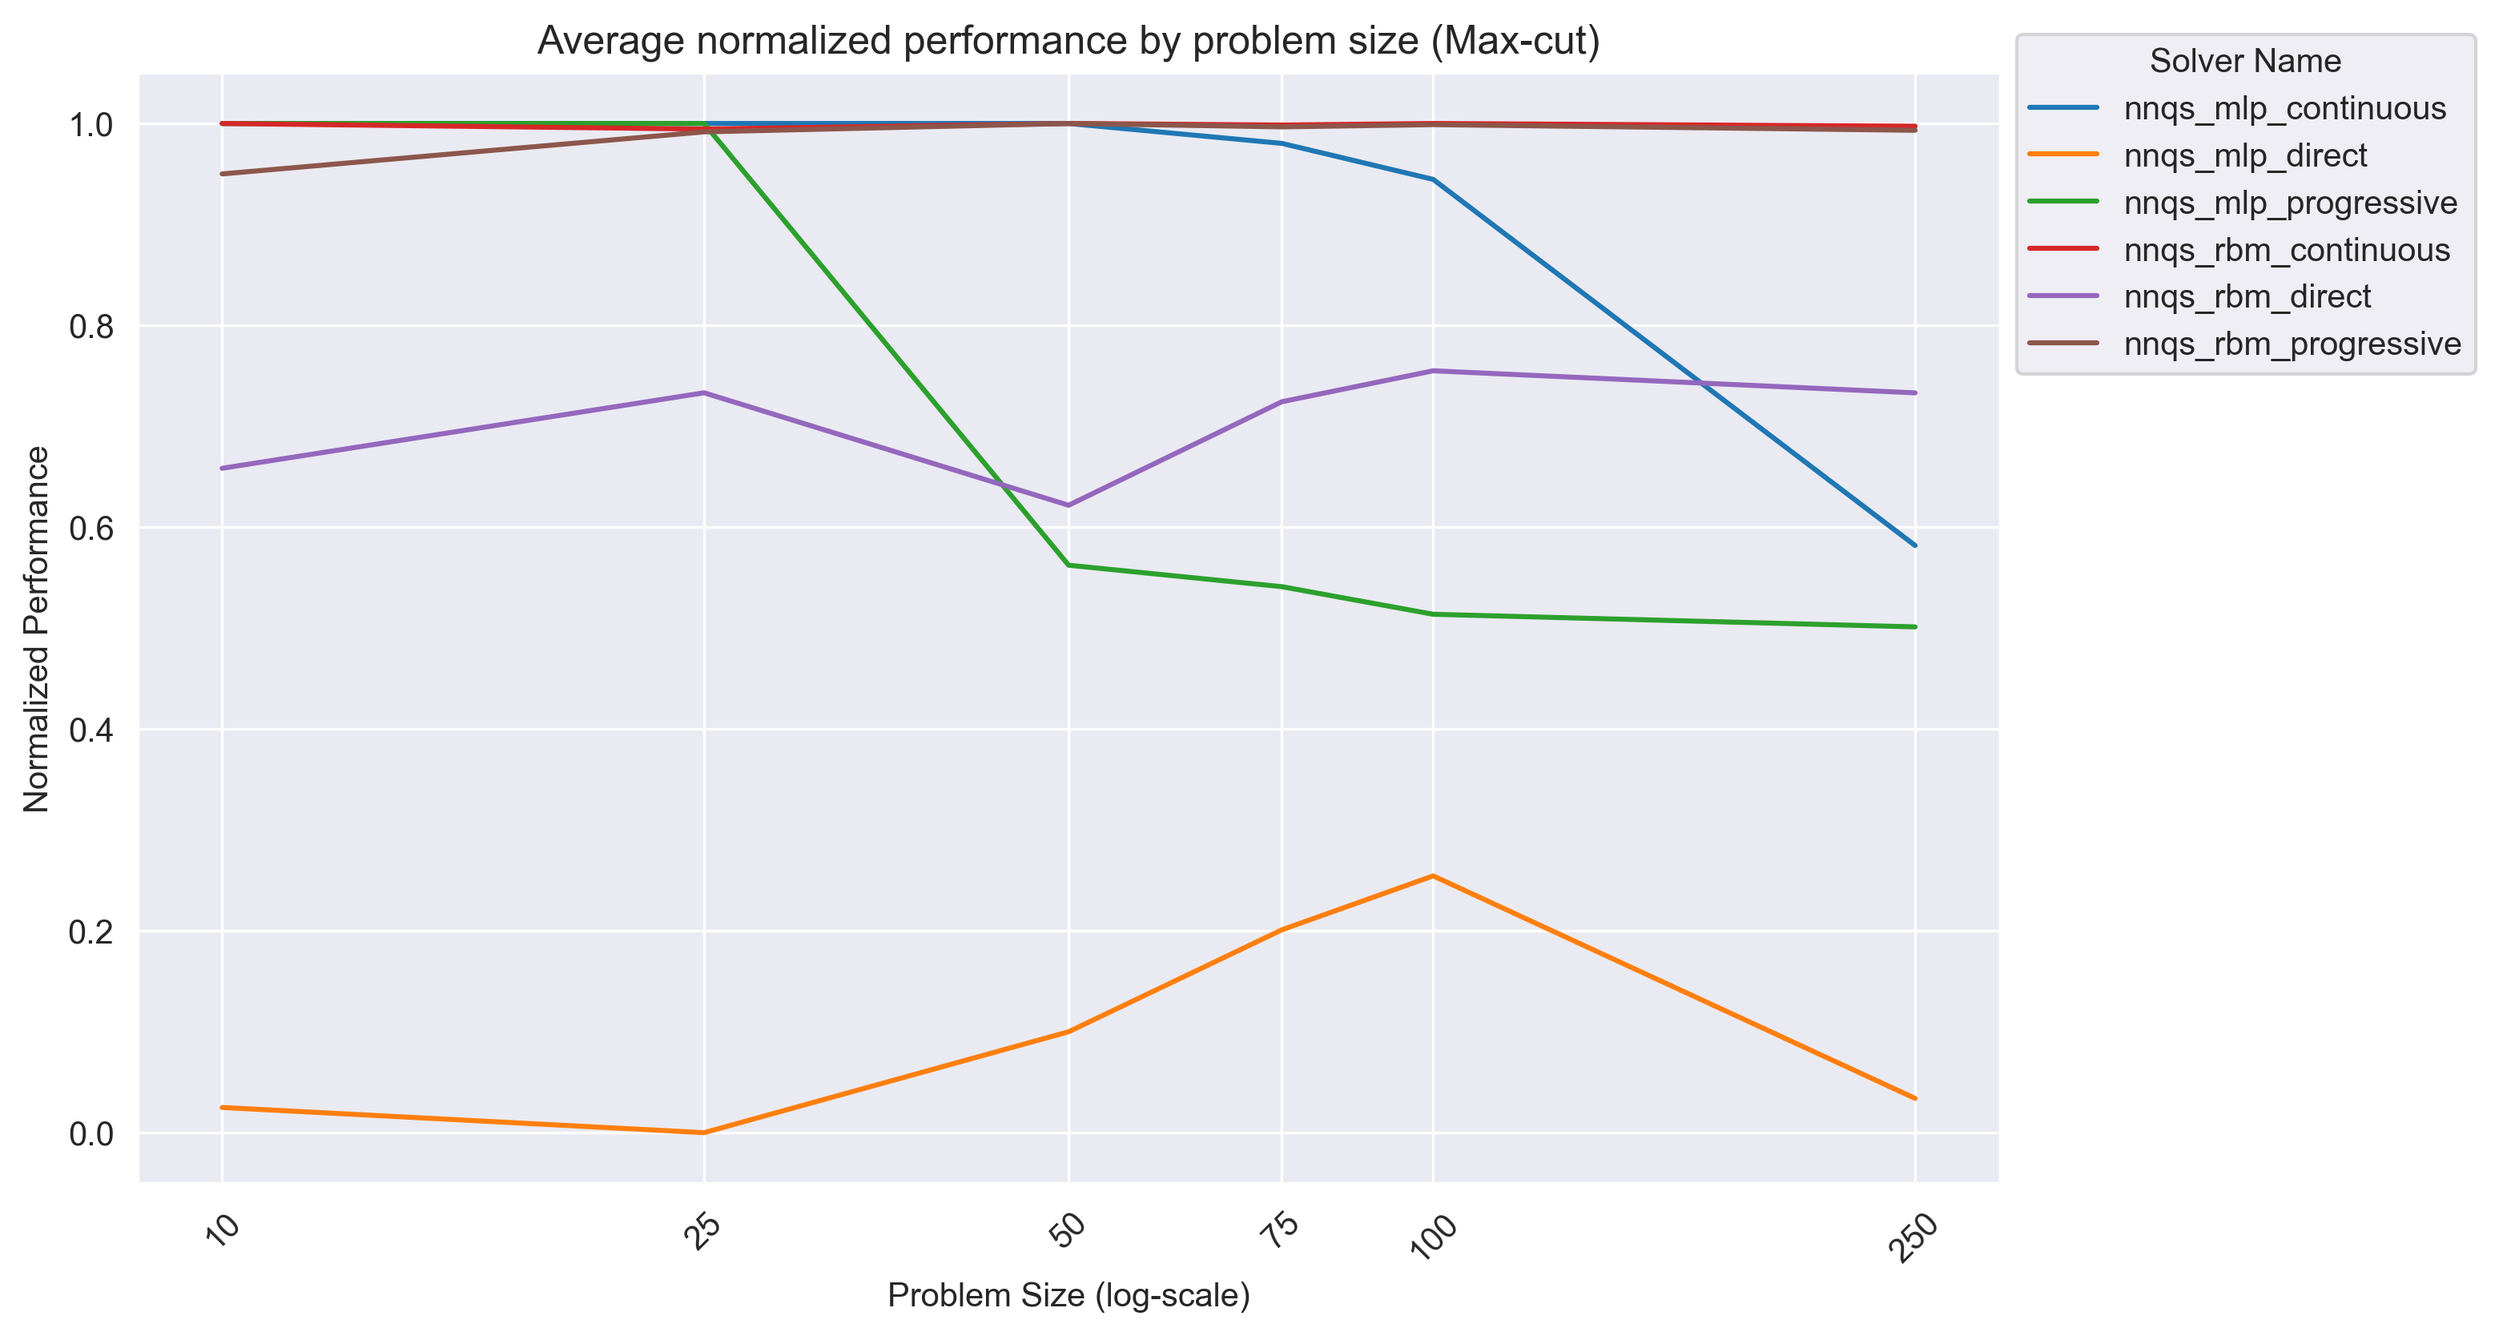
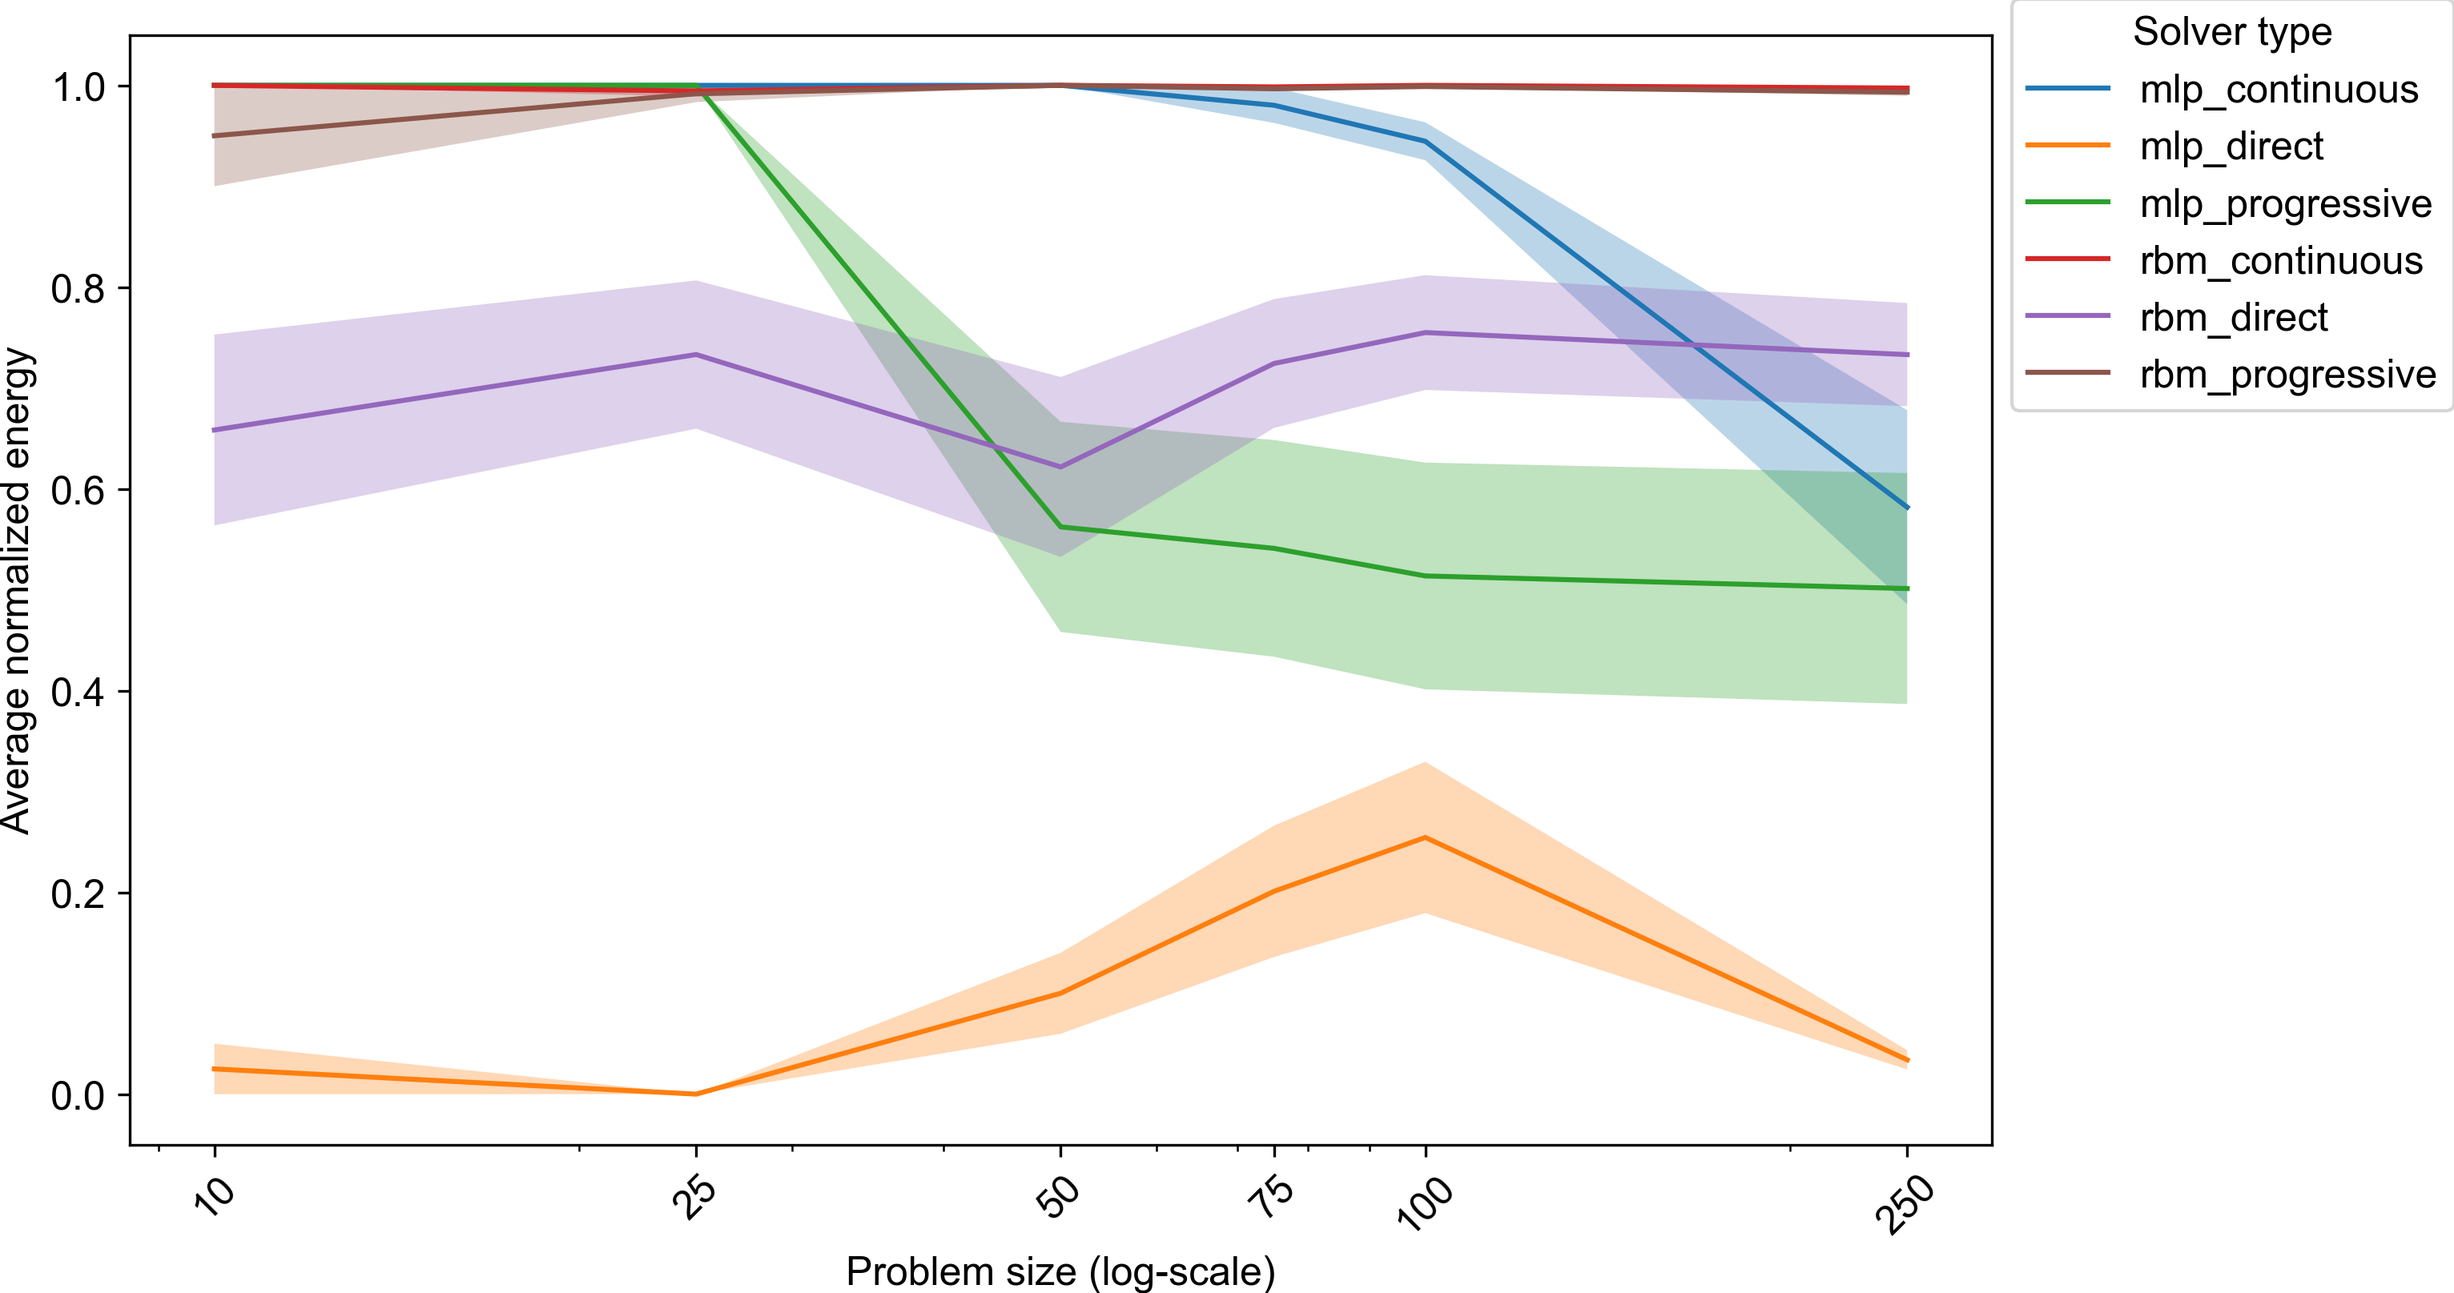
update

diff --git a/contents/methodology.tex b/contents/methodology.tex
@@ -30,19 +30,19 @@ We will use quantum annealers from D-wave Systems as the solver for Quantum Anne
 \begin{figure}[h!]
     \centering
     \includegraphics[width=0.5\linewidth]{images/pegasus_topology.png}
-    \caption{A view of the D-Wave pegasus topology where each line represents a qubit and intersections represent available couplers~\protect\cite{dwaveadvantage}}
+    \caption[A view of the D-Wave pegasus topology---each line represents a qubit and intersections represent available couplers]{A view of the D-Wave pegasus topology where each line represents a qubit and intersections represent available couplers~\protect\cite{dwaveadvantage}}
     \label{pegasustopology}
 \end{figure}
 The experiments will be conducted with the D-Wave Advantage 4.1 QPU with up to 5640 qubits and 40484 couplers \cite{dwaveadvantage}. The QPU operates at a temperature of approximately $12$mK and is built with "a network of tunably coupled rf superconducting quantum–interference device (rf-SQUID) qubits" arranged with the Pegasus graph topology that allows for up to 15 couplers per qubit, shown in \autoref{pegasustopology}. The system Hamiltonian as a function of $s$, the normalized anneal fraction, is:
 \begin{equation}
     \label{eqn:dwavehamiltonian}
-    H(s) = -\frac{A(s)}{2}\left( \right) + \frac{B(s)}{2}\left(\sum_{i}h_i \Hat{\sigma}_z^{(i)}\ + \sum_{i > j}J_{i,j} \Hat{\sigma}_z^{(i)}\Hat{\sigma}_z^{j)}\right)
+    H(s) = -\frac{A(s)}{2}\left(\sum_{i} \Hat{\sigma}_x^{(i)}\right) + \frac{B(s)}{2}\left(\sum_{i}h_i \Hat{\sigma}_z^{(i)}\ + \sum_{i > j}J_{i,j} \Hat{\sigma}_z^{(i)}\Hat{\sigma}_z^{j)}\right)
 \end{equation}
 where functions $A(s)$ and $B(s)$ used in the Advantage 4.1 QPU are shown in \autoref{dwaveannealing} with $A(s) >> B(s)$ when $s=0$ and $B(s) >> A(s)$ when $s=1$ and have an energy scale of around $10^{-24} J$.
 \begin{figure}[h!]
     \centering
     \includegraphics[width=0.6\linewidth]{images/dwave_annealing.png}
-    \caption{Annealing functions $A(s)$ and $B(s)$ as a function of the normalized anneal fraction $s$~\protect\cite{dwaveadvantage}}
+    \caption[Annealing functions $A(s)$ and $B(s)$ as a function of the normalized anneal fraction $s$]{Annealing functions $A(s)$ and $B(s)$ as a function of the normalized anneal fraction $s$~\protect\cite{dwaveadvantage}}
     \label{dwaveannealing}
 \end{figure}
 We will use the default annealing time of $20\mu s$ with $1000$ repeated samplings (number of reads). The candidate solution will be taken as the best solution among the $1000$ sampled configurations.
@@ -104,7 +104,7 @@ To convert a max-cut problem into a QUBO problem, we represent the assignment of
 
 \subsection*{Sherrington-Kirkpatrick (SK) model}
 The Sherrington Kirkpatrick (SK) model is an Ising problem with a random Hamiltonian of the form $\hat{H}_c = \frac{1}{\sqrt{n}} \sum_{1 \leq i < j \leq n} J_{ij}s_i s_j$
-where $J_{ij} \sim \mathcal{N}(0,1)$ are independent standard Gaussian random variables. The energy landscape of the SK model is complex and has exponentially many local minima with a unique global minimum separated by high energy barriers \cite{skmodel}. This many-valley structure implies that it is extremely difficult to find the exact solution of the model. We generate random Gaussian variables with a random normal generator from the NumPy Python library.
+where $J_{ij} \sim \mathcal{N}(0,1)$ are independent standard Gaussian variables. The energy landscape of the SK model is complex and has exponentially many local minima with a unique global minimum separated by high energy barriers \cite{skmodel}. This many-valley structure implies that it is extremely difficult to find the exact solution of the model. We generate random Gaussian variables with a random normal generator from the NumPy Python library.
 
 %Parisi [6] provides a formula (for proof, see [7]) that, when numerically evaluated [8, 9, 1], shows for typical instances,
 %\begin{equation*}
@@ -114,7 +114,7 @@ where $J_{ij} \sim \mathcal{N}(0,1)$ are independent standard Gaussian random va
 
 %\subsection*{Quantum Critical Points}
 %get rid of Linear term
-%J terms are 0
+%J terms are 1
 %Ising model has no linear term
 %QCP is A(s)/2 = +-B(s)/2 * J magnitude is the same.
 %harder for Dwave to solve, jump to excited state
@@ -129,9 +129,9 @@ To evaluate the performance of each solver we will use two performance metrics:
     \begin{equation}
         \Bar{p} = \frac{\text{number of best solutions found}}{20}
     \end{equation}
-    \item The average normalized performance, used in \cite{b34}, which is:
+    \item The average normalized energy, used in \cite{b34}, which is:
     \begin{equation}
         \Bar{r}_{solver} =  \frac{1}{20} \sum_{i = 1}^{20} \frac{E_{max} - E_{solver}}{E_{max} - E_{min}}
     \end{equation}
-    where $E_{max}$ and $E_{min}$ are the energies of the worst and best solutions found by all solvers and $E_{solver}$ is the energy that the solver found. Note that if a solver finds the best solution it gets a score of $1$ and if it finds the worst solution it gets a score of $0$. All solvers get a score of $1$ if $E_{max}=E_{min}$.
+    where $E_{max}$ and $E_{min}$ are the energies of the worst and best solutions found by all solvers and $E_{solver}$ is the energy that the solver found. Note that if a solver finds the best solution it gets a normalized energy of $1$ and if it finds the worst solution it gets a normalized energy of $0$. All solvers get a normalized energy of $1$ if all solutions have the same energy.
 \end{enumerate}

diff --git a/contents/nnqsresults.tex b/contents/nnqsresults.tex
@@ -28,58 +28,72 @@ We will also compare 3 training algorithms for NNQS---progressive, direct, and c
     \State Train NNQS on $H(s)$ for $1$ epoch;
     \EndFor
     \end{algorithmic}
-    \caption{NNQS Direct Training}
+    \caption{NNQS Continuous Training}
     \label{alg:continuous}
 \end{algorithm}
 
 The direct training scheme serves as a baseline for directly training a neural network with the cost function as the problem Hamiltonian. The progressive training scheme most closely resembles the quantum annealing process, where the system is kept at the ground state by training until convergence in each increment of $s$. The continuous training scheme is a combination of the other two schemes by slowly incrementing $s$ but never reaching convergence.
 
+\section{Results and Discussion}
 \subsection{NAE3SAT}
+
 \begin{figure}[!h]
-    \centering
-    \includegraphics[width=1\linewidth]{images/nae3sat_nnqs_avg.png}
-    \caption{Performance of different NNQS types on the NAE3SAT dataset}
+    \subfloat[Normalized energy]{\includegraphics[width=0.49\textwidth]{images/nae3sat_nnqs_avg.png}}\hfill
+    \subfloat[Success probability]{\includegraphics[width=0.49\textwidth]{images/nae3sat_nnqs_success_avg.png}}
+    \caption{Average performance of different NNQS types for NAE3SAT}
     \label{nnqs-nae3sat-average}
 \end{figure}
 
 \begin{figure}[!h]
-    \centering
-    \includegraphics[width=1\linewidth]{images/nae3sat_nnqs_size.png}
-    \caption{Performance by size on the NAE3SAT dataset}
+    \subfloat[Normalized energy]{\includegraphics[width=0.49\textwidth]{images/nae3sat_nnqs_size.png}}\hfill
+    \subfloat[Success probability]{\includegraphics[width=0.49\textwidth]{images/nae3sat_nnqs_success_size.png}}
+    \caption{Performance of different NNQS types for NAE3SAT by problem size}
     \label{nnqs-nae3sat-size}
 \end{figure}
 
+%\begin{figure}[!h]
+%    \centering
+%    \includegraphics[width=1\linewidth]{images/nae3sat_nnqs_size.png}
+%    \caption{Performance by size on the NAE3SAT dataset}
+%    \label{nnqs-nae3sat-size}
+%\end{figure}
+
 \subsection{Max-cut}
+
 \begin{figure}[!h]
-    \centering
-    \includegraphics[width=1\linewidth]{images/maxcut_nnqs_avg.png}
-    \caption{Performance of different NNQS types on the max-cut dataset}
+    \subfloat[Normalized energy]{\includegraphics[width=0.49\textwidth]{images/maxcut_nnqs_avg.png}}\hfill
+    \subfloat[Success probability]{\includegraphics[width=0.49\textwidth]{images/maxcut_nnqs_success_avg.png}}
+    \caption{Average performance of different NNQS types for max-cut}
     \label{nnqs-maxcut-average}
 \end{figure}
 
 \begin{figure}[!h]
-    \centering
-    \includegraphics[width=1\linewidth]{images/maxcut_nnqs_size.png}
-    \caption{Performance by size on the max-cut dataset}
+    \subfloat[Normalized energy]{\includegraphics[width=0.49\textwidth]{images/maxcut_nnqs_size.png}}\hfill
+    \subfloat[Success probability]{\includegraphics[width=0.49\textwidth]{images/maxcut_nnqs_success_size.png}}
+    \caption{Performance of different NNQS types for max-cut by problem size}
     \label{nnqs-maxcut-size}
 \end{figure}
 
-\subsection{SK Model}
+
+\subsection{SK model}
+
 \begin{figure}[!h]
-    \centering
-    \includegraphics[width=1\linewidth]{images/skmodel_nnqs_avg.png}
-    \caption{Performance of different NNQS types on the SK model dataset}
+    \subfloat[Normalized energy]{\includegraphics[width=0.49\textwidth]{images/skmodel_nnqs_avg.png}}\hfill
+    \subfloat[Success probability]{\includegraphics[width=0.49\textwidth]{images/skmodel_nnqs_success_avg.png}}
+    \caption{Average performance of different NNQS types for SK model}
     \label{nnqs-skmodel-average}
 \end{figure}
 
 \begin{figure}[!h]
     \centering
-    \includegraphics[width=1\linewidth]{images/skmodel_nnqs_size.png}
-    \caption{Performance by size on the SK model dataset}
+    \subfloat[Normalized energy]{\includegraphics[width=0.9\textwidth]{images/skmodel_nnqs_size.png}}%\hfill
+    \\
+    \subfloat[Success probability]{\includegraphics[width=0.9\textwidth]{images/skmodel_nnqs_success_size.png}}
+    \caption{Performance of different NNQS types for SK model by problem size}
     \label{nnqs-skmodel-size}
 \end{figure}
 
-Using the RBM with a continuous training scheme gives the highest normalized performance across all datasets.
+Across all the problem sets, we see that the RBM has a better average performance compared to the MLP in both average normalized energy and success probability. In terms of training schemes, direct training performs the worst among the 3, and continuous training performs better than progressive training. Using the RBM with a continuous training scheme gives the highest normalized performance across all datasets.
 
 \section{Future Work}
 Future studies could investigate if more state-of-the-art machine learning models such as Graph Neural Networks or Attention-based Neural Networks can be used as the underlying architecture for NNQS.

diff --git a/contents/results.tex b/contents/results.tex
@@ -6,7 +6,7 @@ One of the first benchmarking works for quantum annealing was conducted by Dench
 
 \outcite{b34} evaluated the performance of QAOA on the IBMQ backend and the D-Wave quantum annealer using instances of MaxCut and 2-satisfiability problems with up to 18 variables. The performance of the QAOA algorithm is inconsistent and underperforms quantum annealing in their problem set. More recently, \outcite{b35} also compared the performance of QAOA on the IBMQ backend and D-Wave quantum annealing on randomly generated Ising problems with cubic interaction terms and also found that quantum annealing had superior performance over QAOA for all problem sizes. 
 
-\outcite{gomes2019classical} showed that the NNQS method with an RBM architecture produces good solutions for the max-cut problem with graph sizes of up to 256. \outcite{khandoker2023supplementing} uses recurrent neural networks as the NNQS architecture for the max-cut and traveling salesman problem and found that it outperforms SA. However, there is no direct study that compares performance across QA, QAOA, NNQS, and SA.
+\outcite{gomes2019classical} showed that the NNQS solver with an RBM architecture produces good solutions for the max-cut problem with graph sizes of up to 256. \outcite{khandoker2023supplementing} uses recurrent neural networks as the NNQS architecture for the max-cut and traveling salesman problem and found that it outperforms SA. However, there is no direct study that compares performance across QA, QAOA, NNQS, and SA.
 
 \section{Results and Discussion}
 Increase to 500 for classic solvers.
@@ -27,7 +27,7 @@ Increase to 500 for classic solvers.
     \label{all-maxcut-size}
 \end{figure}
 
-\subsection{SK Model}
+\subsection{SK model}
 \begin{figure}[!h]
     \centering
     \includegraphics[width=1\linewidth]{images/skmodel_normalized_performance_all.png}

diff --git a/report.tex b/report.tex
@@ -16,6 +16,7 @@
 \usepackage{hyperref}
 \usepackage{algorithm}
 \usepackage[noend]{algpseudocode}
+\usepackage[activate={true,nocompatibility},final,tracking=true,kerning=true,spacing=true,factor=1100,stretch=10,shrink=10]{microtype}
 
 \theoremstyle{definition}
 \newtheorem{defn}{Definition} \newcommand{\defnautorefname}{Definition}
@@ -70,7 +71,7 @@
 \pagenumbering{roman}
 
 % Replace as necessary
-\title{Data-driven and Physics-inspired Machine Learning: Benchmarking quantum-based QUBO solvers}
+\title{Data-driven and Physics-inspired Machine Learning: Benchmarking quantum-inspired quadratic unconstrained binary optimization solvers}
 \author{Guo Yulong}
 \projyear{2023/2024}
 \projnumber{H0811550}
@@ -103,7 +104,7 @@ TODO
 
 % Replace as necessary
 \begin{acknowledgement}
-I would like to thank my friends and family for their support during the project. I would also like to thank my project advisor associate professor St\'ephane Bressan, research fellow Lu Jianlong, and past and present members of the research group for their invaluable guidance and support. Without them, I would not have been able to complete this project.
+I would like to thank my friends and family for their support during the project. I would also like to thank my project advisor Associate Professor St\'ephane Bressan, research fellow Lu Jianlong, and past and present members of the research group for their invaluable guidance and support.
 \end{acknowledgement}
 
 \listoffigures % Remove if no figures

diff --git a/contents/appendixa.tex b/contents/appendixa.tex
@@ -10,9 +10,9 @@ This section will describe how we obtained an approximate analytical form of fun
     0.001 & 0.001001 & $9.746483 \times 10^0$ \\
     0.002 & 0.002002 & $9.655434 \times 10^0$ \\
     ... & ... & ... \\
-    0.997 & 0.997998 & $1.344913 \times 10^{-9}$\\
-    0.998 & 0.998999 & $1.293784 \times 10^{-9}$\\
-    0.999 & 1.000000 & $1.242656 \times 10^{-9}$\\
+    0.998 & 0.997998 & $1.344913 \times 10^{-9}$\\
+    0.999 & 0.998999 & $1.293784 \times 10^{-9}$\\
+    1.000 & 1.000000 & $1.242656 \times 10^{-9}$\\
     \hline
     \end{tabular}
     \caption{Discrete points of annealing functions $A(s)$ and $B(s)$.}

diff --git a/contents/appendixb.tex b/contents/appendixb.tex
@@ -1,2 +1,2 @@
 \chapter{D-wave Quenching}\label{appendix:quenching}
-blah blah
+To be filled in
